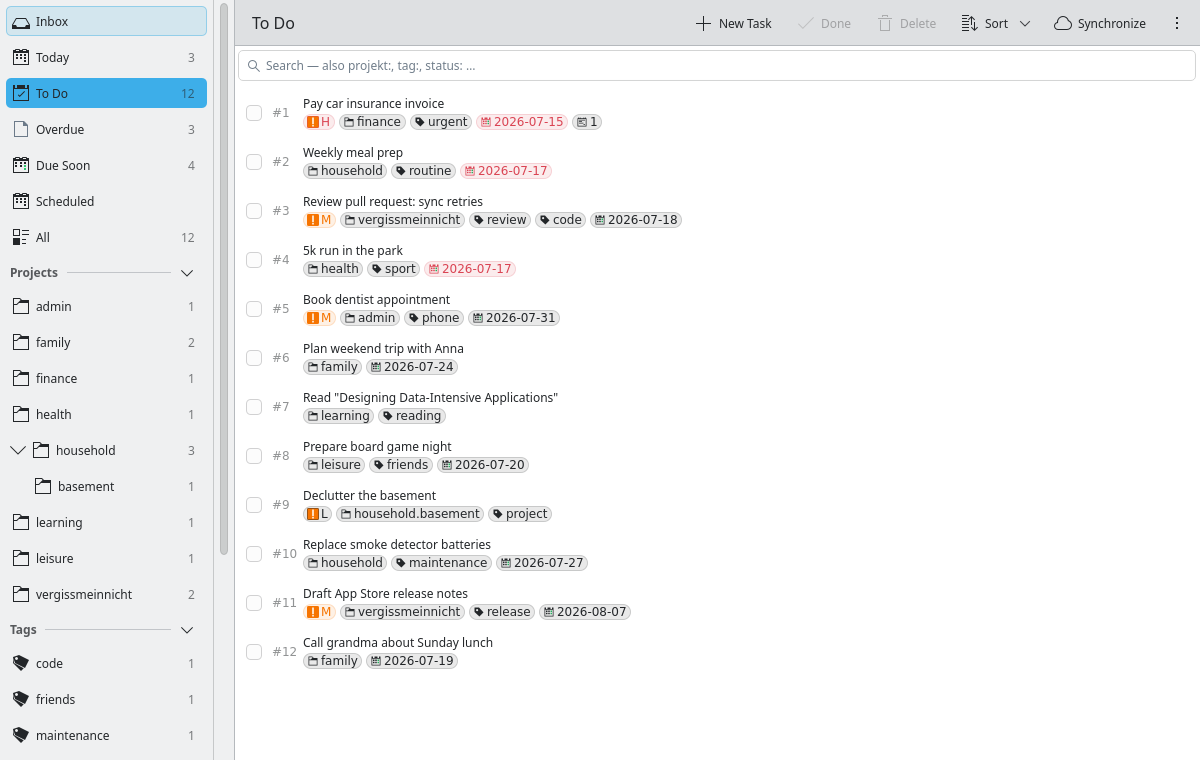
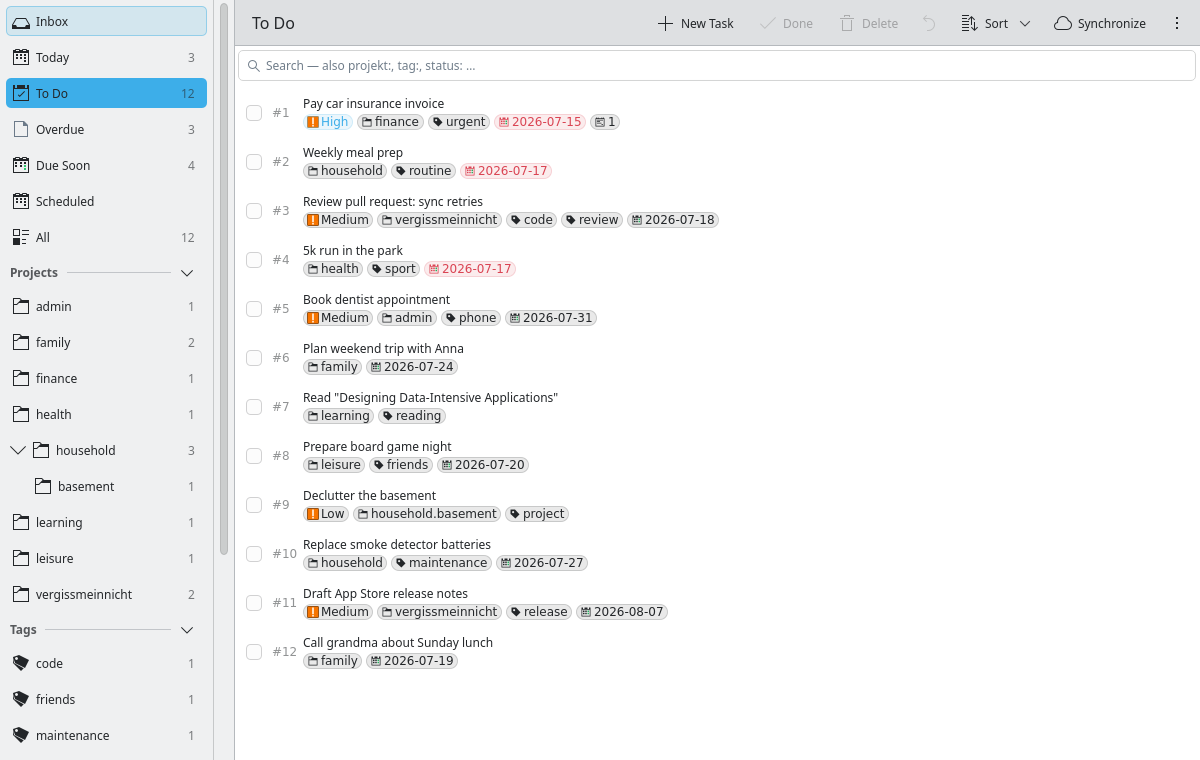
UI/UX wave + 0.3.0 release prep
High-impact items from the UI/UX expert review: red is reserved for
overdue (priority uses accent color + localized labels), tags collapse
to "+n" beyond two, form windows gained inner margins, quick capture
moves notes below the structured fields, help dialog wraps long cells,
arrow keys move the list selection (Shift extends). Remaining review
items tracked in issue #5; JSON import (#3) and contexts (#4) deferred.

CHANGELOG/READMEs/metainfo/version 0.3.0; fresh screenshots.

diff --git a/app/qml/TasksPage.qml b/app/qml/TasksPage.qml
@@ -746,4 +746,39 @@ Kirigami.ScrollablePage {
         enabled: page.selection.length > 0
         onActivated: page.clearSelection()
     }
+    // Pfeiltasten: Auswahl bewegen (Umschalt erweitert den Bereich).
+    function moveSelection(delta, extend) {
+        if (taskList.count === 0)
+            return
+        const next = Math.max(0, Math.min(taskList.count - 1,
+                              (selectionAnchor < 0 ? (delta > 0 ? -1 : taskList.count) : selectionAnchor) + delta))
+        const uuid = Array.from(app.visibleUuids(next, next))[0]
+        if (!uuid)
+            return
+        if (extend)
+            selectRange(next)
+        else
+            selectSingle(uuid, next)
+        taskList.positionViewAtIndex(next, ListView.Contain)
+    }
+    Shortcut {
+        sequence: "Down"
+        enabled: !searchField.activeFocus
+        onActivated: page.moveSelection(1, false)
+    }
+    Shortcut {
+        sequence: "Up"
+        enabled: !searchField.activeFocus
+        onActivated: page.moveSelection(-1, false)
+    }
+    Shortcut {
+        sequence: "Shift+Down"
+        enabled: !searchField.activeFocus
+        onActivated: page.moveSelection(1, true)
+    }
+    Shortcut {
+        sequence: "Shift+Up"
+        enabled: !searchField.activeFocus
+        onActivated: page.moveSelection(-1, true)
+    }
 }

diff --git a/app/qml/QuickCaptureDialog.qml b/app/qml/QuickCaptureDialog.qml
@@ -122,14 +122,6 @@ FormWindow {
         }
     }
 
-    FormCard.FormTextAreaDelegate {
-        Layout.fillWidth: true
-        id: notesArea
-        label: i18n("Notizen")
-    }
-
-    FormCard.FormDelegateSeparator { Layout.fillWidth: true }
-
     FormCard.FormComboBoxDelegate {
         Layout.fillWidth: true
         id: projectField
@@ -172,5 +164,13 @@ FormWindow {
         id: recurCombo
         text: i18n("Wiederholung")
         model: [i18n("Keine"), i18n("Täglich"), i18n("Wöchentlich"), i18n("Monatlich"), i18n("Jährlich")]
+    }
+
+    FormCard.FormDelegateSeparator { Layout.fillWidth: true }
+
+    FormCard.FormTextAreaDelegate {
+        Layout.fillWidth: true
+        id: notesArea
+        label: i18n("Notizen")
     }
 }

diff --git a/app/qml/TaskDelegate.qml b/app/qml/TaskDelegate.qml
@@ -96,12 +96,14 @@ QQC2.ItemDelegate {
                          || delegate.isBlocked || delegate.isBlocking
                          || delegate.annotationCount > 0
 
+                // Rot ist für Überfällig reserviert — Priorität signalisiert
+                // über die Akzentfarbe (H) bzw. neutral (M/L), mit Klartext.
                 MetaChip {
                     visible: delegate.priority.length > 0
                     iconName: "emblem-important"
-                    label: delegate.priority
-                    chipColor: delegate.priority === "H" ? Kirigami.Theme.negativeTextColor
-                              : delegate.priority === "M" ? Kirigami.Theme.neutralTextColor
+                    label: delegate.priority === "H" ? i18n("Hoch")
+                          : delegate.priority === "M" ? i18n("Mittel") : i18n("Niedrig")
+                    chipColor: delegate.priority === "H" ? Kirigami.Theme.highlightColor
                               : Kirigami.Theme.textColor
                 }
                 MetaChip {
@@ -110,12 +112,18 @@ QQC2.ItemDelegate {
                     label: delegate.project
                 }
                 Repeater {
-                    model: delegate.tags
+                    model: delegate.tags.slice(0, 2)
                     MetaChip {
                         required property var modelData
                         iconName: "tag"
                         label: modelData
                     }
+                }
+                // Mehr als zwei Tags: bündeln, Details stehen im Editor.
+                MetaChip {
+                    visible: delegate.tags.length > 2
+                    iconName: "tag"
+                    label: i18n("+%1", delegate.tags.length - 2)
                 }
                 MetaChip {
                     visible: delegate.due > 0

diff --git a/app/qml/HelpDialog.qml b/app/qml/HelpDialog.qml
@@ -102,7 +102,11 @@ Kirigami.Dialog {
             QQC2.Label { text: "status:erledigt" ; font.family: "monospace" }
 
             QQC2.Label { text: "+TAG" ; font.family: "monospace" }
-            QQC2.Label { text: i18n("Virtuelle Tags (GROSS): OVERDUE, ACTIVE, BLOCKED, DUE, TODAY, WEEK, TAGGED …") }
+            QQC2.Label {
+                text: i18n("Virtuelle Tags (GROSS): OVERDUE, ACTIVE, BLOCKED, DUE, TODAY, WEEK, TAGGED …")
+                wrapMode: Text.WordWrap
+                Layout.maximumWidth: Kirigami.Units.gridUnit * 12
+            }
             QQC2.Label { text: "+OVERDUE" ; font.family: "monospace" }
 
             QQC2.Label { text: "due.before: / due.after:" ; font.family: "monospace" }

diff --git a/app/qml/FormWindow.qml b/app/qml/FormWindow.qml
@@ -50,7 +50,9 @@ Window {
 
             ColumnLayout {
                 id: contentColumn
-                width: scroll.availableWidth
+                // Luft zur Fensterkante — Formularzeilen kleben sonst randlos.
+                width: scroll.availableWidth - Kirigami.Units.largeSpacing * 2
+                x: Kirigami.Units.largeSpacing
                 spacing: 0
             }
         }

diff --git a/CHANGELOG.md b/CHANGELOG.md
@@ -5,6 +5,51 @@ The format is based on [Keep a Changelog](https://keepachangelog.com/en/1.1.0/).
 
 ## [Unreleased]
 
+## [0.3.0] - 2026-07-17
+
+Team-built release ("full Taskwarrior manager"): a CLI capability
+inventory, a taskchampion gap analysis and a UI/UX expert review were
+produced by dedicated agents, then implemented in three waves.
+
+### Added
+
+- **Urgency** — the exact CLI formula (3.4.2 defaults) as sort order and
+  in the detail window.
+- **Start/stop** (active task) with context-menu action, "Active" chip,
+  sidebar filter and `+ACTIVE` search.
+- **Undo** (Ctrl+Z) — every mutation batch is one undoable step; like
+  the CLI, undo cannot cross a sync.
+- **until** expiry date in the detail window (CLI auto-delete semantics).
+- **duplicate** context-menu action; "last modified" display; read-only
+  UDA/foreign-attribute section in the detail window.
+- **Search**: virtual tags (`+OVERDUE`, `+ACTIVE`, `+BLOCKED`, `+DUE`,
+  `+TODAY`, `+WEEK`, `+TAGGED`, `+INSTANCE`, …), `due.before:`/
+  `due.after:`, `project.not:`.
+- **Date synonyms**: `sod`/`eod`/`sow`/`eow`/`soww`/`eoww`/`som`/`eom`/
+  `soq`/`eoq`/`soy`/`eoy`, English weekday names, ordinals (`23rd`),
+  `yesterday`, `now`, `later`/`someday`.
+- **recur synonyms**: `weekdays`, `biweekly`/`fortnight`, `quarterly`,
+  `semiannual`, `annual`/`biannual`, `Nwks`/`Nmo`/`Nqtr`/`Nyrs`.
+- **JSON export** (task-export format incl. UDAs) from settings.
+- **CLI coexistence guarantees**, verified end-to-end against the real
+  `task` CLI on a shared sync server (`core/tests/cli_coexistence.rs`):
+  UDAs survive app edits, CLI recurrence templates/instances are
+  respected (no duplicate follow-ups), app-owned recur tasks are
+  harmless for the CLI. See docs/architecture.md.
+
+### Changed
+
+- Priority chips use the accent color and localized labels — red is now
+  reserved for overdue. Tags collapse to "+n" beyond two. Form windows
+  gained breathing room; quick-capture moves notes below the structured
+  fields. Arrow keys move the list selection (Shift extends).
+
+### Known gaps (tracked as issues)
+
+- CLI hooks never fire for app edits (library-level mutation).
+- Month calendar/forecast (#1), detail column (#2), JSON import,
+  contexts, further UI polish — see the issue tracker.
+
 ## [0.2.4] - 2026-07-17
 
 ### Fixed
@@ -162,7 +207,8 @@ feature-comparable for the daily-driver workflows.
 - Packaging: desktop file, scalable icon, AppStream metainfo,
   `scripts/install-local.sh`, CI and release workflows (Arch container).
 
-[Unreleased]: https://github.com/hnsstrk/vergissmeinnicht-kde/compare/v0.2.4...HEAD
+[Unreleased]: https://github.com/hnsstrk/vergissmeinnicht-kde/compare/v0.3.0...HEAD
+[0.3.0]: https://github.com/hnsstrk/vergissmeinnicht-kde/compare/v0.2.4...v0.3.0
 [0.2.4]: https://github.com/hnsstrk/vergissmeinnicht-kde/compare/v0.2.3...v0.2.4
 [0.2.3]: https://github.com/hnsstrk/vergissmeinnicht-kde/compare/v0.2.2...v0.2.3
 [0.2.2]: https://github.com/hnsstrk/vergissmeinnicht-kde/compare/v0.2.1...v0.2.2

diff --git a/README.de.md b/README.de.md
@@ -68,6 +68,15 @@ Oberfläche auf jeder Plattform.
 - **Automatische Backups** — `VACUUM INTO`-Snapshot vor jedem Sync,
   rotierend die letzten 10. Manuelles Backup und Wiederherstellung in den
   Einstellungen. Siehe [`docs/backup-and-restore.md`](docs/backup-and-restore.md).
+- **Taskwarrior-Parität** — Dringlichkeit (exakte CLI-Formel) als
+  Sortierung, Start/Stopp (aktive Aufgabe), Rückgängig (Strg+Z),
+  `until`-Ablaufdatum, Duplizieren, JSON-Export inkl. UDAs, virtuelle
+  Tags und `due.before:`/`due.after:`/`project.not:` in der Suche,
+  CLI-Datums-Synonyme (`eow`, `friday`, `23rd`, …) und
+  recur-Synonyme (`weekdays`, `quarterly`, …). CLI-Recurrence-Vorlagen
+  werden respektiert, nie dupliziert — die Koexistenz mit der
+  `task`-CLI am gemeinsamen Sync-Server ist Ende-zu-Ende verifiziert
+  (siehe `docs/architecture.md`).
 - **Legacy-Reparatur** — eine Wartungsaktion überführt Token-Syntax in
   Aufgabentiteln (`+tag project:x`) in echte Eigenschaften.
 

diff --git a/README.md b/README.md
@@ -69,6 +69,14 @@ platform.
 - **Automatic backups** — `VACUUM INTO` snapshot before every sync, rotated
   to the last 10. Manual backup and restore from settings. See
   [`docs/backup-and-restore.md`](docs/backup-and-restore.md).
+- **Taskwarrior parity** — urgency (exact CLI formula) as sort order,
+  start/stop (active task), undo (Ctrl+Z), `until` expiry, duplicate,
+  JSON export incl. UDAs, virtual tags and `due.before:`/`due.after:`/
+  `project.not:` in search, CLI date synonyms (`eow`, `friday`, `23rd`, …)
+  and recur synonyms (`weekdays`, `quarterly`, …). CLI recurrence
+  templates are respected, never duplicated — coexistence with the
+  `task` CLI on a shared sync server is verified end-to-end
+  (see `docs/architecture.md`).
 - **Legacy repair** — a maintenance action converts token syntax left in
   task titles (`+tag project:x`) into real properties.
 